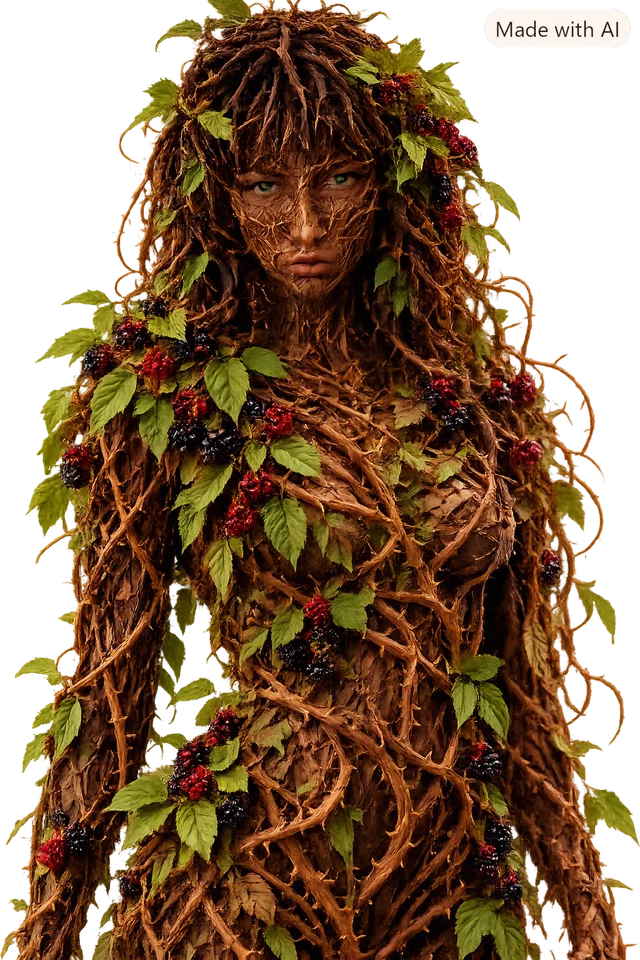
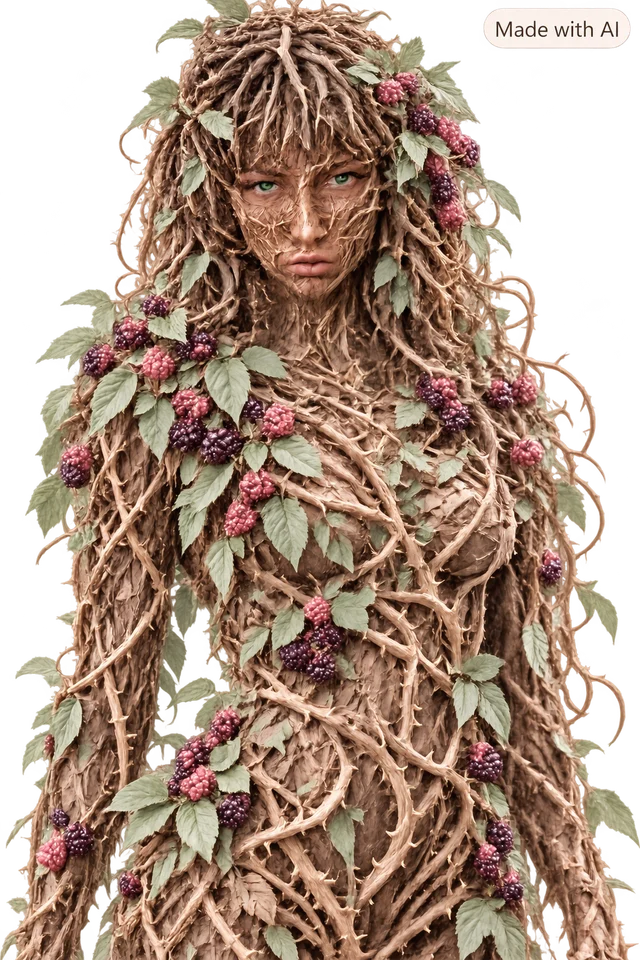
Soften botanical portrait to a translucent pastel palette

diff --git a/index.html b/index.html
@@ -78,7 +78,7 @@ html[data-hob-theme="dark"] :is(h1,h2,h3,h4,p,li,small,label){color:inherit}
 html[data-hob-theme="dark"] :is(.product-card,.listing-card,.card,.hob-creator-spotlight-grid>a,article){background-color:#2b3031!important;color:#eee8dc!important;border-color:#515657!important}
 html[data-hob-theme="dark"] :is(input,select,textarea,dialog){background-color:#2b3031!important;color:#eee8dc!important;border-color:#686e6d!important}
 html[data-hob-theme="dark"] :is(a,button){color:inherit}
-</style><link rel="stylesheet" href="/briar-makeover.css?v=dark-contrast-20261012"><link rel="stylesheet" href="/customer-edit.css?v=house-remodel-20261015"><link rel="stylesheet" href="/house-remodel.css?v=nested-shop-filters-20261015"><link rel="stylesheet" href="/briar-campaign.css?v=transparent-portrait-20261016"></head>
+</style><link rel="stylesheet" href="/briar-makeover.css?v=dark-contrast-20261012"><link rel="stylesheet" href="/customer-edit.css?v=house-remodel-20261015"><link rel="stylesheet" href="/house-remodel.css?v=nested-shop-filters-20261015"><link rel="stylesheet" href="/briar-campaign.css?v=pastel-portrait-20261016"></head>
   <body><div id="hob-global-nav" class="hob-global-nav" role="navigation" aria-label="House of Briar main navigation"><a class="hob-global-wordmark" href="/" aria-label="House of Briar home">HOUSE <i>of</i> BRIAR</a><nav aria-label="Main links"><a href="/#shop">Shop</a><a href="/designers/room">Designers</a><a href="/creative-house.html">The Creative House</a><button type="button" id="hob-theme-toggle" aria-label="Switch to dark mode" aria-pressed="false" title="Switch theme"><span id="hob-theme-icon" aria-hidden="true">☾</span></button><a class="hob-global-cart-link" href="/?openCart=1" aria-label="Open shopping cart"><img class="suitcase-nav-icon" src="/suitcase-cart-v1.svg" alt="" aria-hidden="true"><span>Cart</span></a></nav></div>
     <dialog id="house-tryon-dialog" aria-labelledby="house-tryon-title"><div class="dialog-header"><h2 id="house-tryon-title">Virtual styling preview</h2><button id="house-tryon-close" class="text-button" type="button">Close preview</button></div><form id="house-tryon-form" class="stack-form"><input id="house-tryon-listing" type="hidden" /><label for="house-tryon-photo">Upload a photo of yourself in ordinary clothing</label><input id="house-tryon-photo" type="file" accept="image/png,image/jpeg,image/webp" required /><label><input id="house-tryon-consent" type="checkbox" required /> I own this photo or have permission, and agree to send it and the listing image to OpenAI for this preview.</label><p class="small-print">AI visual preview only. Colors, garment details, body shape, and drape may change. Check the original listing and measurements before buying. House of Briar does not save your uploaded photo or preview.</p><button class="primary-button" type="submit">Create my try-on preview</button><p id="house-tryon-status" role="status"></p></form><div id="house-tryon-result"></div></dialog>
     <div class="page-shell">
@@ -105,7 +105,7 @@ html[data-hob-theme="dark"] :is(a,button){color:inherit}
       <main id="top">
 
         <section class="hero sewing-hero fashion-cover briar-cutout-hero" aria-label="House of Briar — Independent by design">
-  <picture class="fashion-cover-art briar-portrait-art"><source media="(max-width:700px)" srcset="/briar-portrait-green-v2-mobile.webp?v=cutout-3"><img src="/briar-portrait-green-v2.webp?v=cutout-3" width="1000" height="1500" alt="A green-eyed figure woven from natural thorn vines, green leaves and blackberries." fetchpriority="high" decoding="async"></picture>
+  <picture class="fashion-cover-art briar-portrait-art"><source media="(max-width:700px)" srcset="/briar-portrait-green-v2-mobile.webp?v=pastel-4"><img src="/briar-portrait-green-v2.webp?v=pastel-4" width="1000" height="1500" alt="A green-eyed figure woven from champagne thorn vines, sage leaves and dusty rose berries." fetchpriority="high" decoding="async"></picture>
   <div class="container sewing-hero-content fashion-cover-copy">
     <p class="eyebrow">INDEPENDENT BY DESIGN <span aria-hidden="true">/</span> THE FOUNDING EDIT</p>
     <h1>Made by someone,<br><em>not everyone.</em></h1>

diff --git a/briar-campaign.css b/briar-campaign.css
@@ -112,3 +112,6 @@ html body.blackberry-house .fashion-cover.briar-cutout-hero .briar-portrait-art{
 html body.blackberry-house .fashion-cover.briar-cutout-hero .briar-portrait-art img{object-fit:contain;object-position:center bottom}
 html body.blackberry-house .fashion-cover.briar-cutout-hero .fashion-cover-copy{background:transparent!important}
 @media(max-width:700px){html body.blackberry-house .fashion-cover.briar-cutout-hero .briar-portrait-art img{object-position:center}}
+
+/* Soft pastel artwork blends into the shared hero surface. */
+html body.blackberry-house .fashion-cover.briar-cutout-hero .briar-portrait-art{opacity:.85}
